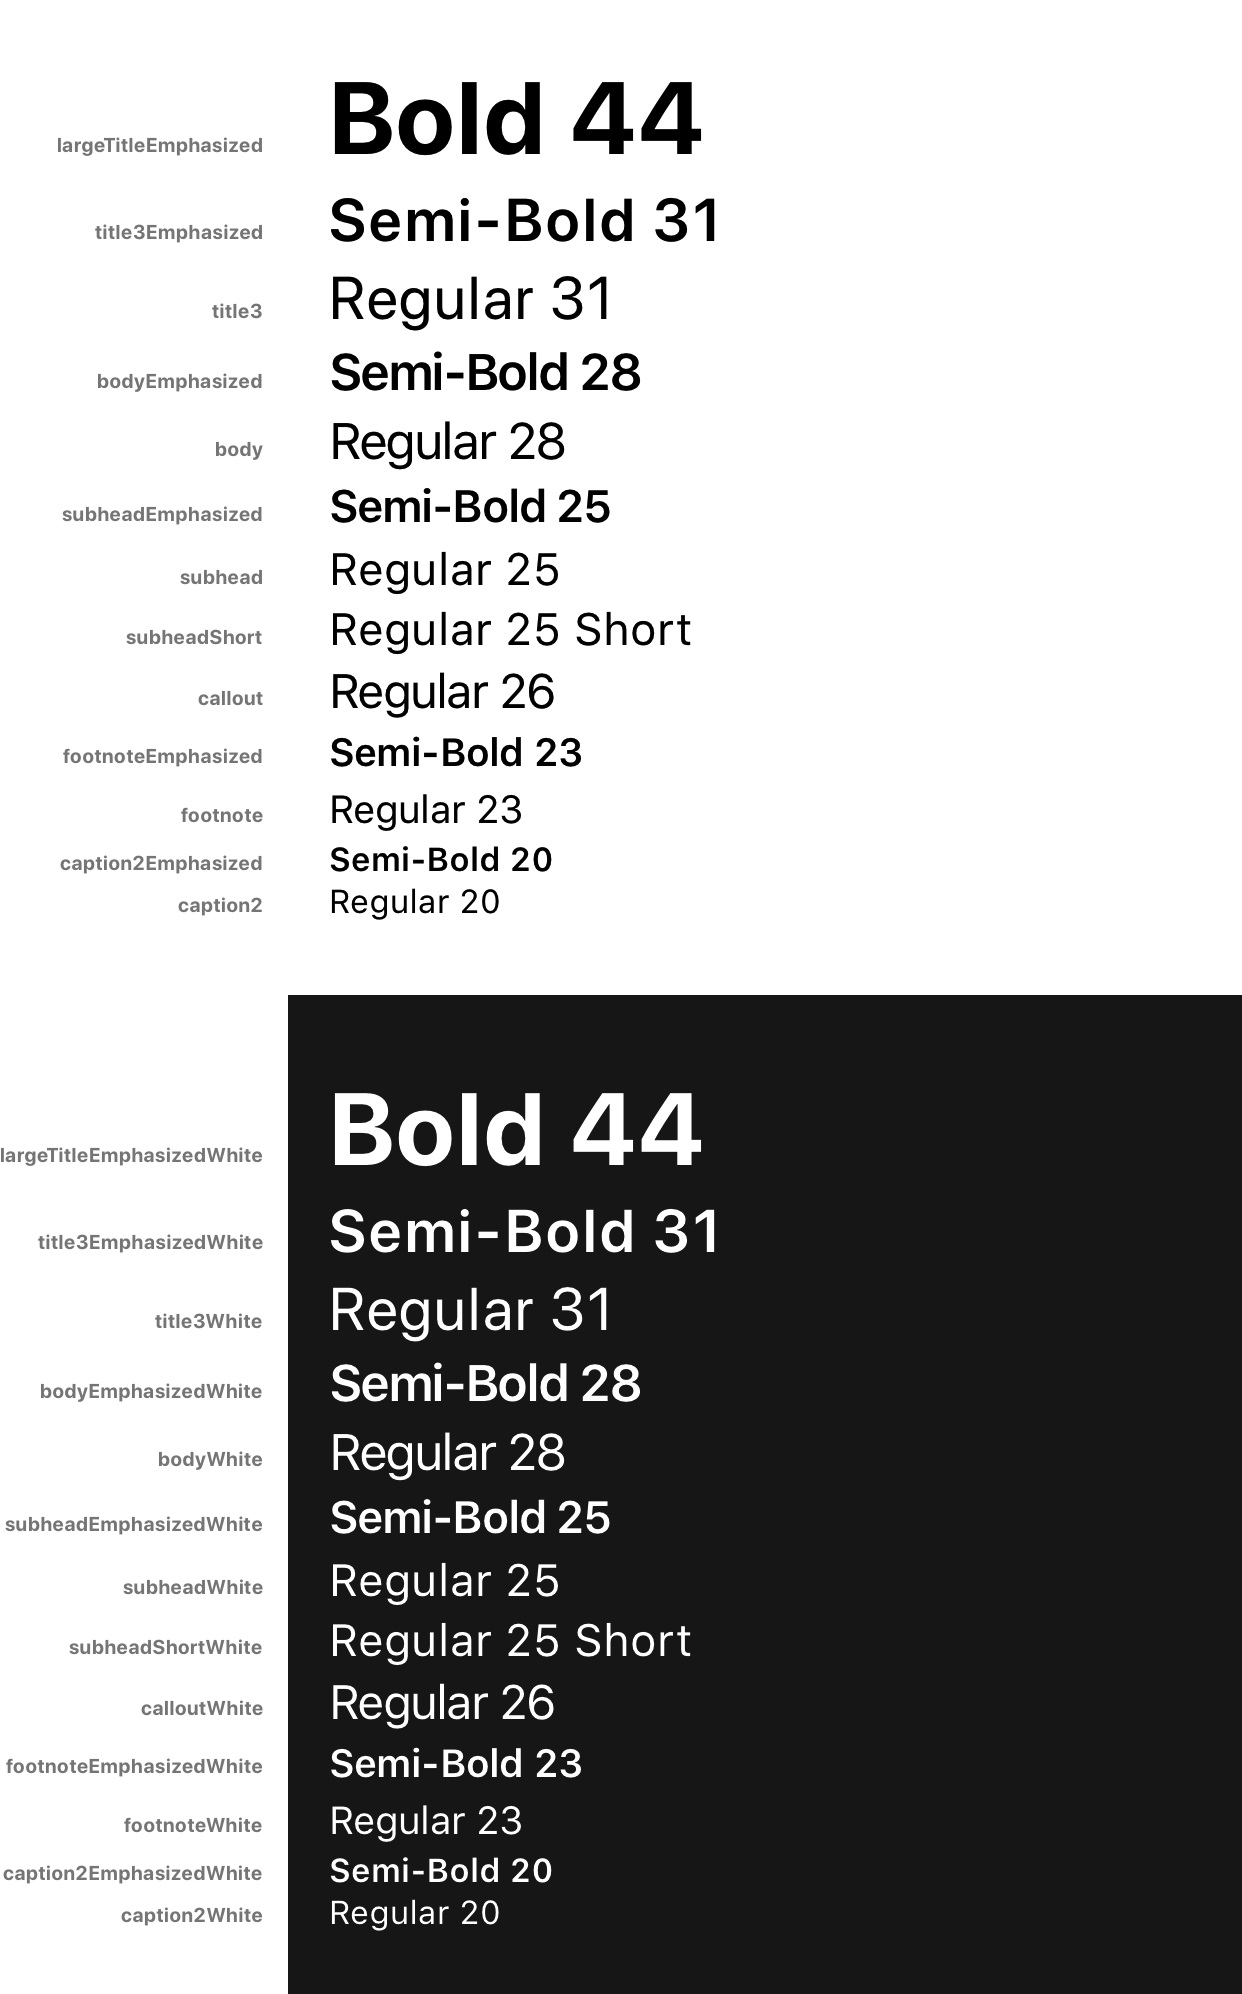
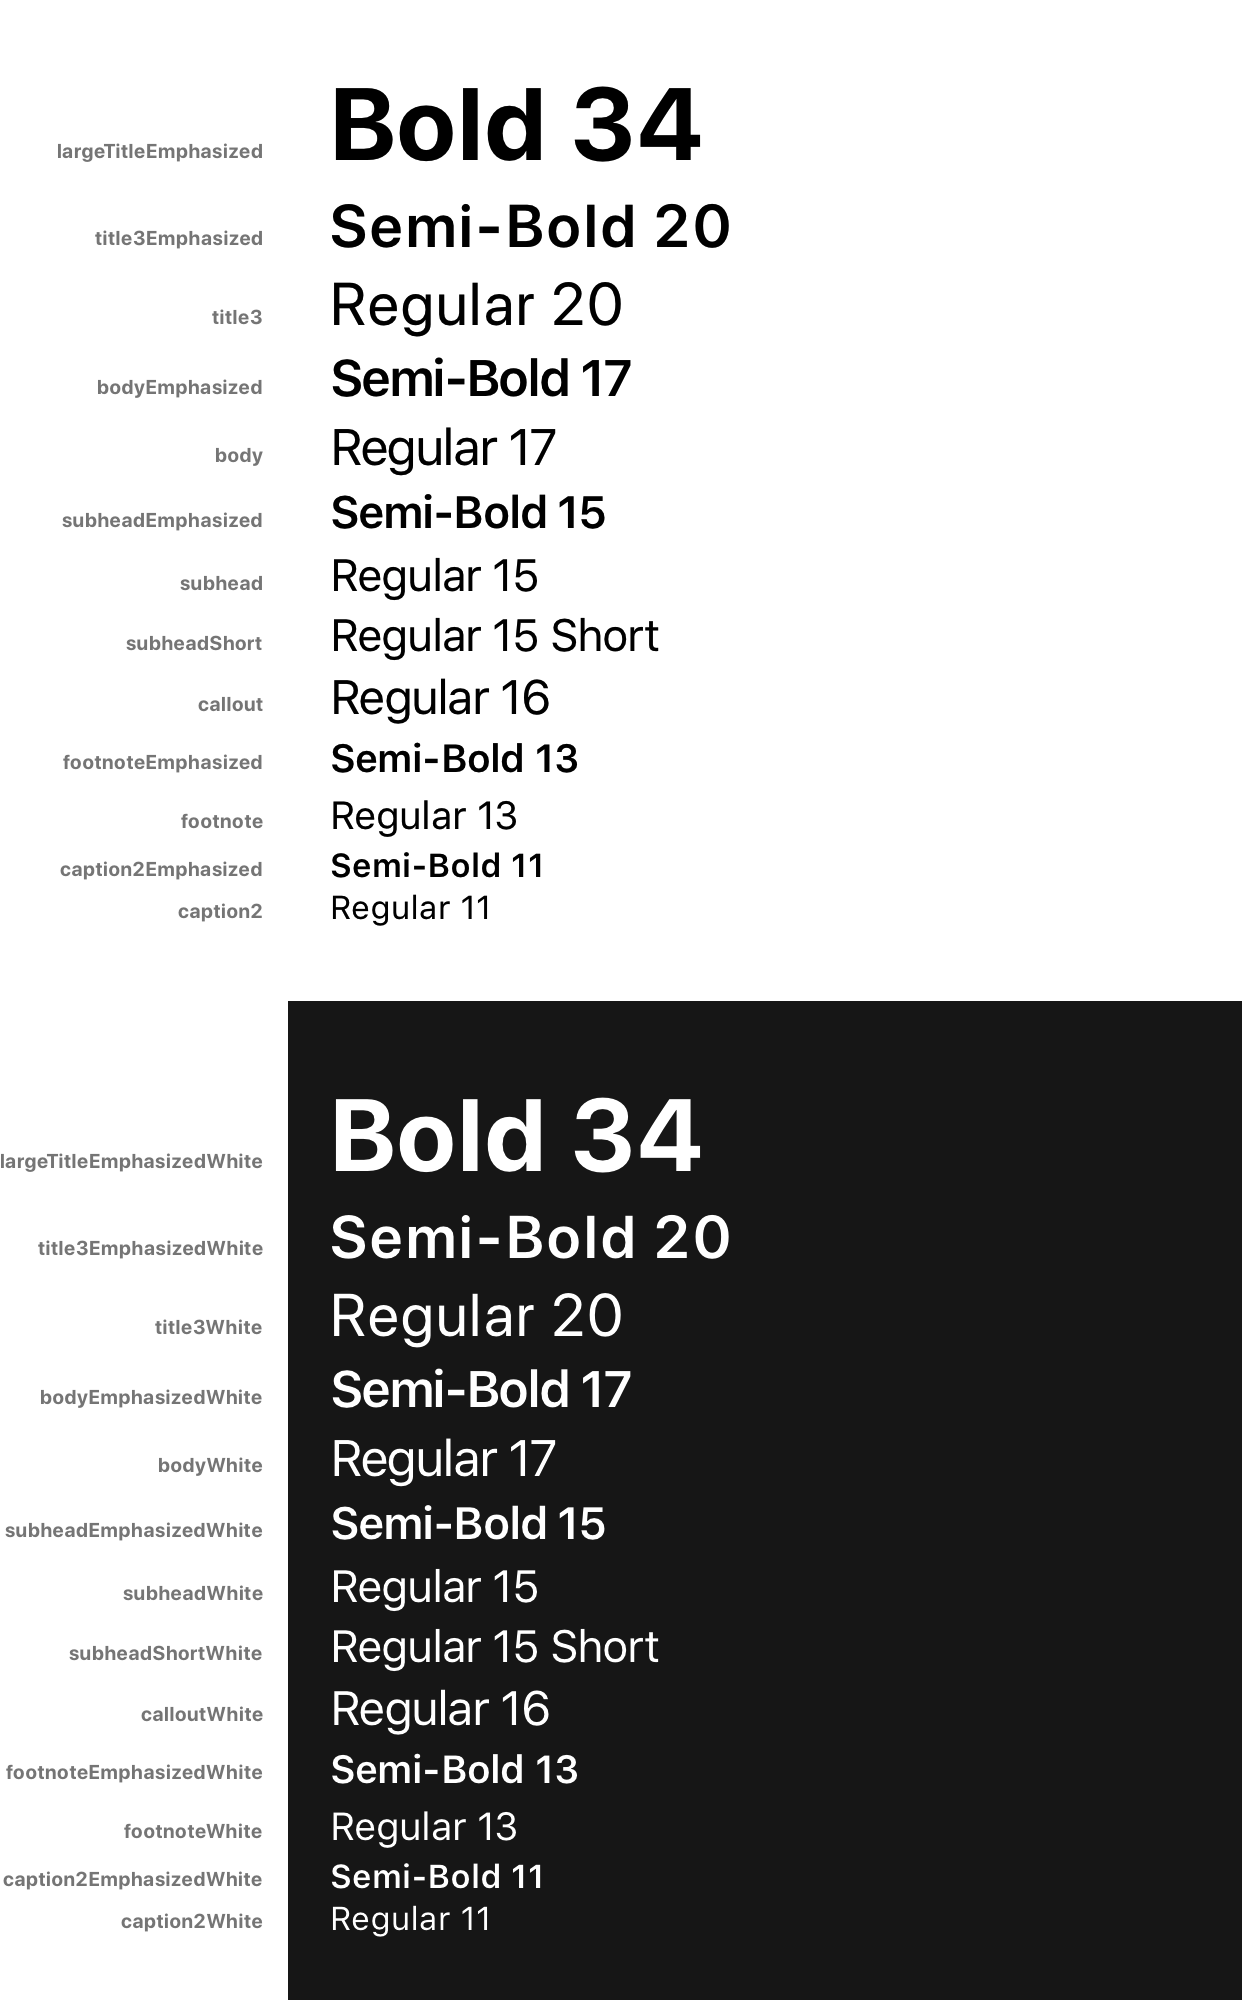
Fix fontSizes on the iOSUIKit collection image and example app

diff --git a/example/screens/type/iOSUIKitScreen.js b/example/screens/type/iOSUIKitScreen.js
@@ -9,134 +9,134 @@ const iOSUIKitScreen = ({ navigation }) => {
       blackStyles={[
         {
           style: iOSUIKit.largeTitleEmphasized,
-          text: "Bold 44",
+          text: "Bold 34",
           name: "largeTitleEmphasized"
         },
         {
           style: iOSUIKit.title3Emphasized,
-          text: "Semi-Bold 31",
+          text: "Semi-Bold 20",
           name: "title3Emphasized"
         },
         {
           style: iOSUIKit.title3,
-          text: "Regular 31",
+          text: "Regular 20",
           name: "title3"
         },
         {
           style: iOSUIKit.bodyEmphasized,
-          text: "Semi-Bold 28",
+          text: "Semi-Bold 17",
           name: "bodyEmphasized"
         },
         {
           style: iOSUIKit.body,
-          text: "Regular 28",
+          text: "Regular 17",
           name: "body"
         },
         {
           style: iOSUIKit.subheadEmphasized,
-          text: "Semi-Bold 25",
+          text: "Semi-Bold 15",
           name: "subheadEmphasized"
         },
         {
           style: iOSUIKit.subhead,
-          text: "Regular 25",
+          text: "Regular 15",
           name: "subhead"
         },
         {
           style: iOSUIKit.subheadShort,
-          text: "Regular 25 Short",
+          text: "Regular 15 Short",
           name: "subheadShort"
         },
         {
           style: iOSUIKit.callout,
-          text: "Regular 26",
+          text: "Regular 16",
           name: "callout"
         },
         {
           style: iOSUIKit.footnoteEmphasized,
-          text: "Semi-Bold 23",
+          text: "Semi-Bold 13",
           name: "footnoteEmphasized"
         },
         {
           style: iOSUIKit.footnote,
-          text: "Regular 23",
+          text: "Regular 13",
           name: "footnote"
         },
         {
           style: iOSUIKit.caption2Emphasized,
-          text: "Semi-Bold 20",
+          text: "Semi-Bold 11",
           name: "caption2Emphasized"
         },
         {
           style: iOSUIKit.caption2,
-          text: "Regular 20",
+          text: "Regular 11",
           name: "caption2"
         }
       ]}
       whiteStyles={[
         {
           style: iOSUIKit.largeTitleEmphasizedWhite,
-          text: "Bold 44",
+          text: "Bold 34",
           name: "largeTitleEmphasizedWhite"
         },
         {
           style: iOSUIKit.title3EmphasizedWhite,
-          text: "Semi-Bold 31",
+          text: "Semi-Bold 20",
           name: "title3EmphasizedWhite"
         },
         {
           style: iOSUIKit.title3White,
-          text: "Regular 31",
+          text: "Regular 20",
           name: "title3White"
         },
         {
           style: iOSUIKit.bodyEmphasizedWhite,
-          text: "Semi-Bold 28",
+          text: "Semi-Bold 17",
           name: "bodyEmphasizedWhite"
         },
         {
           style: iOSUIKit.bodyWhite,
-          text: "Regular 28",
+          text: "Regular 17",
           name: "bodyWhite"
         },
         {
           style: iOSUIKit.subheadEmphasizedWhite,
-          text: "Semi-Bold 25",
+          text: "Semi-Bold 15",
           name: "subheadEmphasizedWhite"
         },
         {
           style: iOSUIKit.subheadWhite,
-          text: "Regular 25",
+          text: "Regular 15",
           name: "subheadWhite"
         },
         {
           style: iOSUIKit.subheadShortWhite,
-          text: "Regular 25 Short",
+          text: "Regular 15 Short",
           name: "subheadShortWhite"
         },
         {
           style: iOSUIKit.calloutWhite,
-          text: "Regular 26",
+          text: "Regular 16",
           name: "calloutWhite"
         },
         {
           style: iOSUIKit.footnoteEmphasizedWhite,
-          text: "Semi-Bold 23",
+          text: "Semi-Bold 13",
           name: "footnoteEmphasizedWhite"
         },
         {
           style: iOSUIKit.footnoteWhite,
-          text: "Regular 23",
+          text: "Regular 13",
           name: "footnoteWhite"
         },
         {
           style: iOSUIKit.caption2EmphasizedWhite,
-          text: "Semi-Bold 20",
+          text: "Semi-Bold 11",
           name: "caption2EmphasizedWhite"
         },
         {
           style: iOSUIKit.caption2White,
-          text: "Regular 20",
+          text: "Regular 11",
           name: "caption2White"
         }
       ]}
